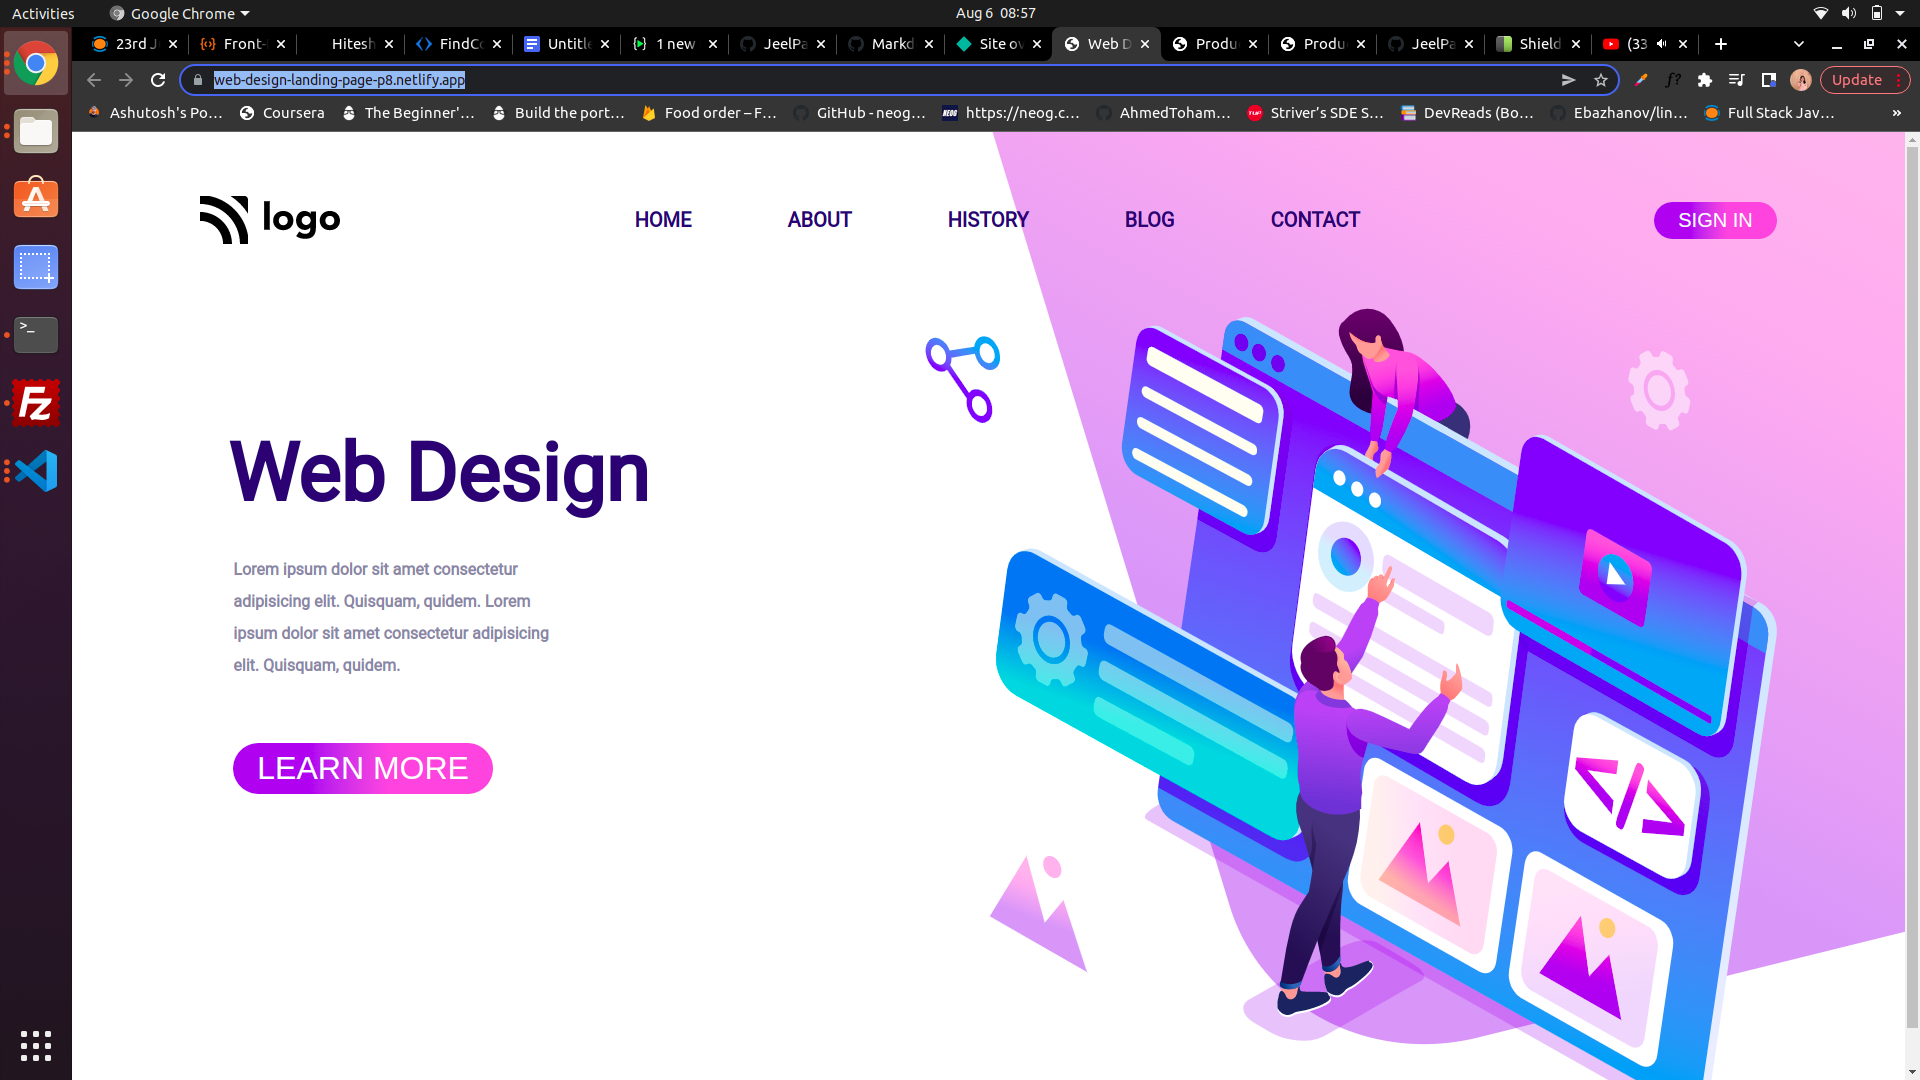
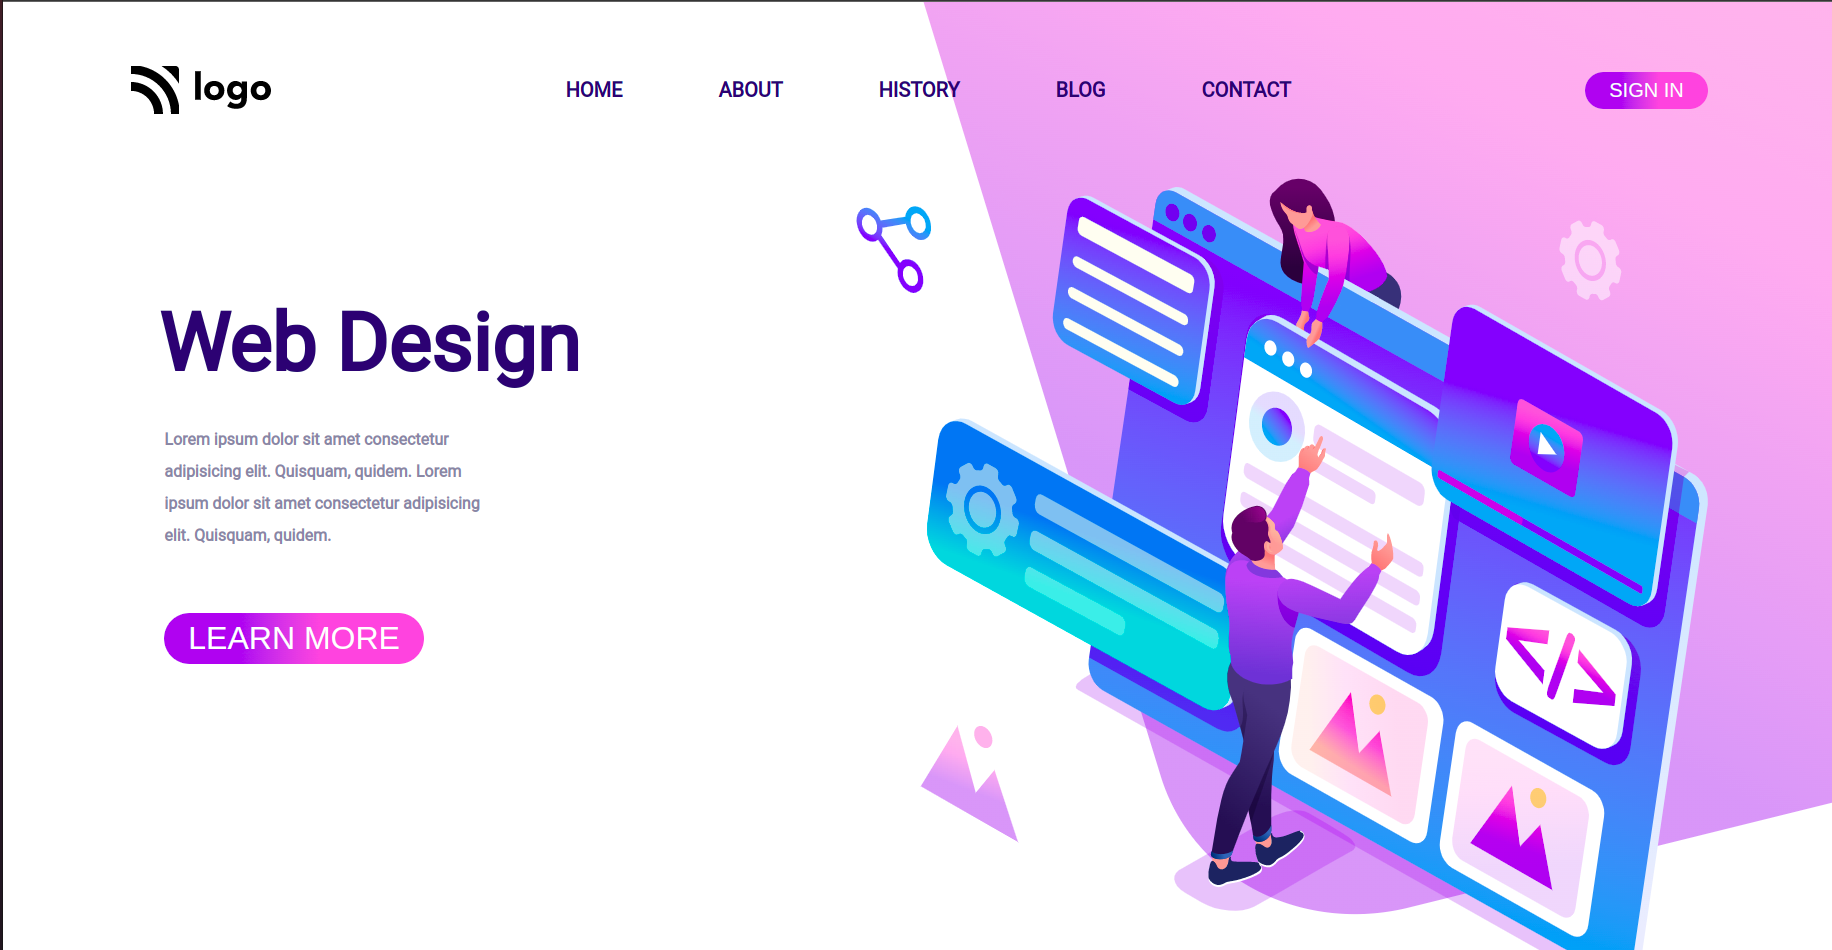
made site responsive

diff --git a/css/index.css b/css/index.css
@@ -101,3 +101,64 @@ nav{
         top: 100%;
     }
 }
+
+@media screen and (max-width:1320px) and (min-width: 1080px) {
+    .left-section h1{
+        font-size: 4rem;
+    }
+    .nav-items{
+        display: none;
+    }
+}
+
+@media screen and (max-width:1080px) and (min-width: 768px) {
+    .left-section h1{
+        font-size: 4rem;
+    }
+    .nav-items{
+        display: none;
+    }
+    .intro-section{
+        flex-direction: column;
+    }
+    .left-section{
+        width: 100%;
+        text-align: center;
+        margin: 5% 7%;
+    }
+    .left-section h4 {
+        width: 80%;
+        margin: 6%;
+        color: #888ba4;
+        line-height: 2rem;
+    }
+    .learn-more-btn{
+        margin-left: 0%;
+    }
+}
+
+@media screen and (max-width:768px) and (min-width: 320px) {
+    .left-section h1{
+        font-size: 4rem;
+    }
+    .nav-items{
+        display: none;
+    }
+    .intro-section{
+        flex-direction: column;
+    }
+    .left-section{
+        width: 80%;
+        text-align: center;
+        margin: 5% 7%;
+    }
+    .left-section h4 {
+        width: 80%;
+        margin: 6%;
+        color: #888ba4;
+        line-height: 2rem;
+    }
+    .learn-more-btn{
+        margin-left: 0%;
+    }
+}
